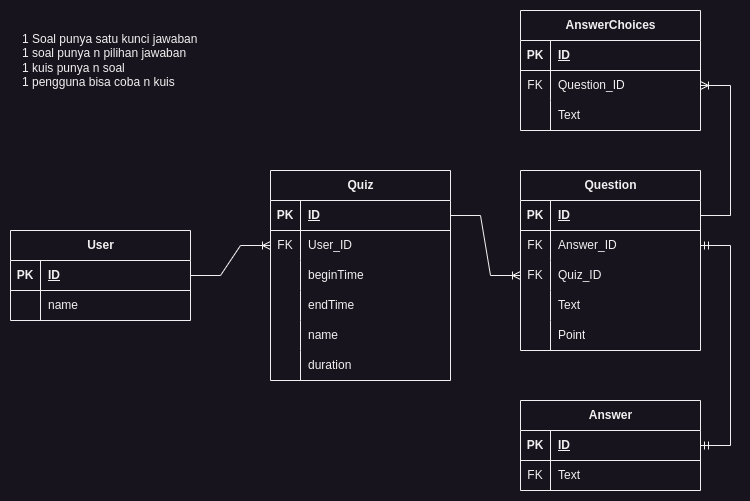
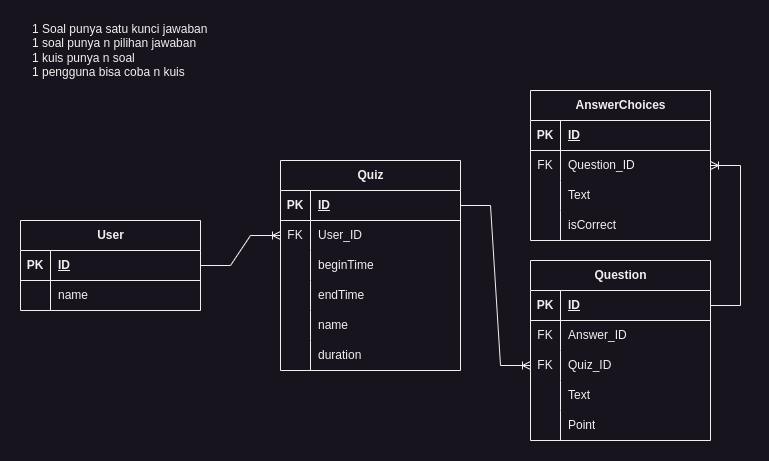
ref: update schema

diff --git a/models/db.js b/models/db.js
@@ -9,7 +9,7 @@ const connection = mysql.createPool({
     database: process.env.DB_NAME
 })
 
-const query = (sql, data) => {
+const query = (sql, data = []) => {
     if(data.length != 0) {
         sql = mysql.format(sql, data);
     }

diff --git a/routes/router.js b/routes/router.js
@@ -10,7 +10,6 @@ ROUTER.use("/user", user);
 ROUTER.use("/quiz", quiz);
 ROUTER.use("/question", question);
 ROUTER.use("/qchoice", questionChoice);
-ROUTER.use("/qanswer", answer);
 
 export default ROUTER;
 
